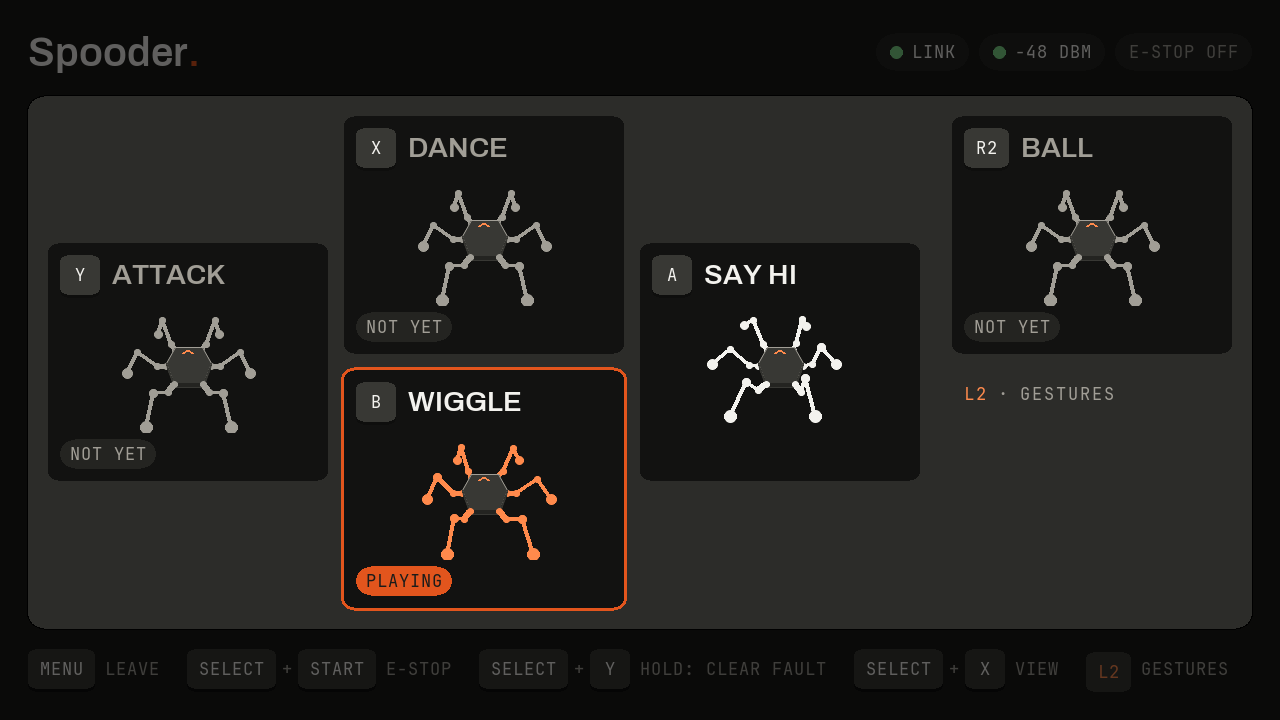
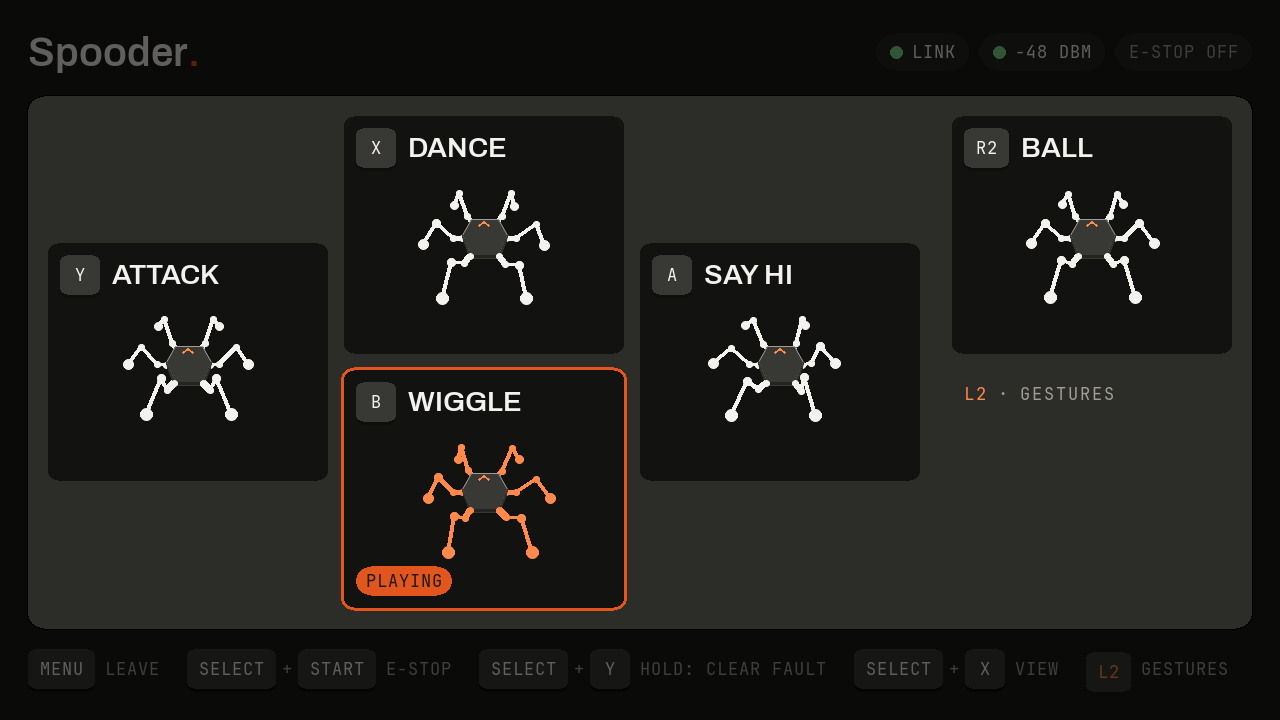
add-gestures: redraw the handheld gesture overlay (task 2.6)
All five tiles now animate from the regenerated golden previews; none is
marked NOT YET.

Claude-Session: https://claude.ai/code/session_01TL58oGMyQMmeXMf1sbLFyX

diff --git a/openspec/changes/add-gestures/tasks.md b/openspec/changes/add-gestures/tasks.md
@@ -17,6 +17,6 @@
 - [x] 2.3 Measure the frame's underside below the coxa pivots from `Frame Bottom.stl` into `body_geometry.h` and `test/golden/body_geometry.txt` (D3); the support check counts a grounded body as supported
 - [x] 2.4 Hold and unfold in the player and `body.cpp` (D1): ball holds in Perform, any request but Sleep unfolds first, Sleep goes straight to Sleep; host tests for leaving the ball by Walk, by Stand and by another gesture, and for Sleep from the hold with every intermediate target reachable and in range
 - [x] 2.5 Script dance, attack (front pair, the strike's foot speed limit raised within the joint budget) and ball with its unfold (D6, D2); remove the stale comment in `gesture.cpp`; host tests for every keyframe at both height extremes, the support margin of attack's four planted feet, and the strike's duration under the selected servo profile
-- [ ] 2.6 Regenerate `test/golden/gestures.txt` (`SPOODER_WRITE_GOLDEN=1 mise run test`) and the handheld's gesture table (`go generate ./internal/gestures` in `desktop/handheld`); the handheld's gesture overlay shows the three animated, and its screenshot in `docs/images/handheld-gestures.png` is redrawn
+- [x] 2.6 Regenerate `test/golden/gestures.txt` (`SPOODER_WRITE_GOLDEN=1 mise run test`) and the handheld's gesture table (`go generate ./internal/gestures` in `desktop/handheld`); the handheld's gesture overlay shows the three animated, and its screenshot in `docs/images/handheld-gestures.png` is redrawn
 - [ ] 2.7 Rehearse all five on the virtual robot; then on the supported robot, attack and ball last; before ball is rehearsed on the robot, measure the underside's height below the coxa pivots on the robot (the STLs give −24.2 mm by one reading of the femur shaft's place and −44.0 mm by the other, `hardware/aecert-hexapod-v1/README.md`) and set `body_geometry::UNDERSIDE_Z` to it, which ball's heights follow
 - [ ] 2.8 Update the skills, readme controls and changelog
